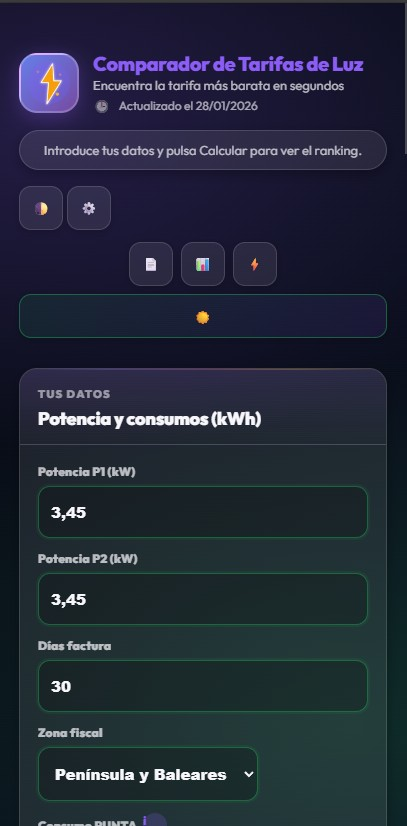
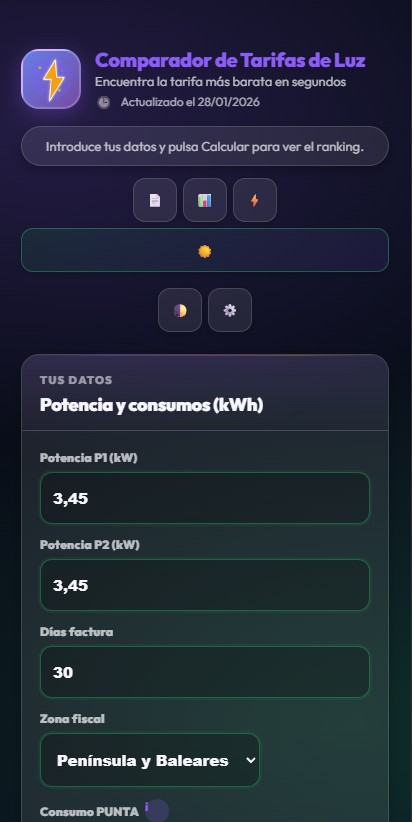
Deploy v20260128-152728: Actualizacion cache y mejoras

diff --git a/sw.js b/sw.js
@@ -3,7 +3,7 @@
 
 // IMPORTANTE: Al hacer deploy, actualiza CACHE_VERSION con la fecha/hora actual para forzar actualización.
 // Bump this on every deploy to force clients to pick up the latest precache.
-const CACHE_VERSION = "20260128-152222";
+const CACHE_VERSION = "20260128-152728";
 const CACHE_NAME = `luzfija-static-${CACHE_VERSION}`;
 
 
